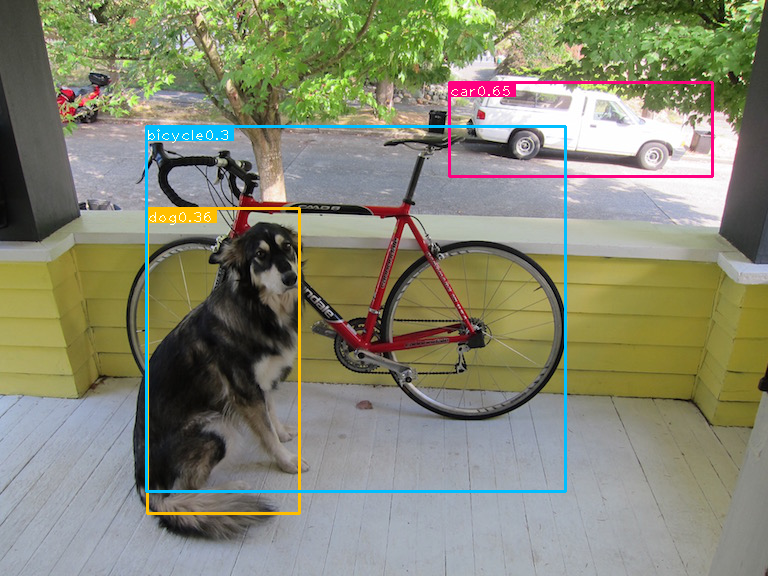
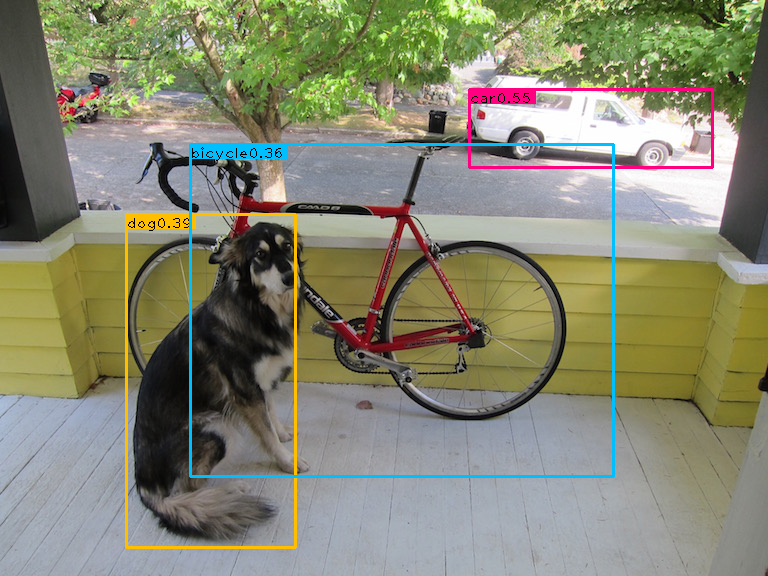
update pics

Changed region(s): [[0.1562, 0.125, 0.9375, 0.9688]]

diff --git a/loss.py b/loss.py
@@ -9,7 +9,7 @@ class_num = int(d['classes'])
 
 
 class YOLOLoss(nn.Module):
-    def __init__(self, side, num, sqrt, coord_scale, noobj_scale, use_gpu=True):
+    def __init__(self, side, num, sqrt, coord_scale, noobj_scale, use_gpu=True,vis=None):
         super(YOLOLoss, self).__init__()
         self.side = side
         self.num = num
@@ -18,6 +18,7 @@ class YOLOLoss(nn.Module):
         self.sqrt = sqrt
         # self.use_gpu = torch.cuda.is_available()
         self.use_gpu = use_gpu
+        self.vis = vis
 
     def compute_iou(self, box1, box2):
         """
@@ -142,7 +143,7 @@ class YOLOLoss(nn.Module):
         # class loss
         class_loss = F.mse_loss(class_pred, class_label, reduction="sum")
 
-        total_loss = self.coord_scale*(xy_loss+wh_loss)+2.*response_loss+not_response_loss+self.noobj_scale*noobj_loss+class_loss
+        total_loss = self.coord_scale*(xy_loss+wh_loss)+2.*response_loss+not_response_loss+0.5*self.noobj_scale*noobj_loss+class_loss
 
         return total_loss / N
 
@@ -177,9 +178,9 @@ class YOLOLoss(nn.Module):
         # compute not containing loss
         noobj_pred = preds[noobj_mask].view(-1, cell_size)
         noobj_label = labels[noobj_mask].view(-1, cell_size)
-        noobj_pred_mask = torch.cuda.ByteTensor(noobj_pred.size()) if self.use_gpu else torch.ByteTensor(
-            noobj_pred.size())
-        noobj_pred_mask.zero_()
+        noobj_pred_mask = torch.ByteTensor(noobj_pred.size()).zero_()
+        if self.use_gpu:
+            noobj_pred_mask = noobj_pred_mask.cuda()
         for i in range(self.num):
             noobj_pred_mask[:, i * 5 + 4] = 1  # just need confidence
         noobj_pred_c = noobj_pred[noobj_pred_mask]
@@ -188,12 +189,12 @@ class YOLOLoss(nn.Module):
         noobj_loss *= self.noobj_scale
 
         # object containing loss
-        obj_response_mask = torch.cuda.ByteTensor(box_label.size()) if self.use_gpu else torch.ByteTensor(
-            box_label.size())
-        obj_response_mask.zero_()
-        obj_not_response_mask = torch.cuda.ByteTensor(box_label.size()) if self.use_gpu else torch.ByteTensor(
-            box_label.size())
-        obj_not_response_mask.zero_()
+        obj_response_mask = torch.ByteTensor(box_label.size()).zero_()
+        if self.use_gpu:
+            obj_response_mask = obj_response_mask.cuda()
+        obj_not_response_mask = torch.ByteTensor(box_label.size()).zero_()
+        if self.use_gpu:
+            obj_not_response_mask = obj_not_response_mask.cuda()
         box_label_iou = torch.zeros(box_label.size())
         if self.use_gpu:
             box_label_iou = box_label_iou.cuda()
@@ -254,14 +255,19 @@ class YOLOLoss(nn.Module):
         # if softmax:
         #     class_loss = F.cross_entropy(class_pred, class_label.max(1)[1], reduction="sum")
         # else:
-        class_loss = F.mse_loss(class_pred, class_label, reduction="sum")
-        # class_loss = F.binary_cross_entropy(class_pred, class_label, reduction='sum')
+        # class_loss = F.mse_loss(class_pred, class_label, reduction="sum")
+        class_loss = F.binary_cross_entropy(class_pred, class_label, reduction='sum')
         # class_loss *= 0.5
 
         print("xy loss:{:.4f},wh loss:{:.4f},resp loss:{:.4f},non-resp loss:{:.4f},noobj loss:{:.4f},class loss:{:.4f}".format(
                 xy_loss, wh_loss, response_loss, not_response_loss, noobj_loss, class_loss))
         # print('coord loos:class loss {:.3f}'.format((xy_loss+wh_loss)/class_loss))
         total_loss = (xy_loss + wh_loss) + response_loss + not_response_loss + noobj_loss + class_loss
+        if self.vis is not None:
+            self.vis.plot_many_stack({'xy': xy_loss.item(),'wh': wh_loss.item(),
+                                      'resp':response_loss.item(),'non-resp':not_response_loss.item(),
+                                      'noobj':noobj_loss.item(),
+                                      'class':class_loss.item()},'iter','losses')
 
         return total_loss / N
 
@@ -454,12 +460,12 @@ class YOLOLoss(nn.Module):
 
 
 if __name__ == '__main__':
-    yololoss = YOLOLoss(14,1,1,5,.5)
+    yololoss = YOLOLoss(14,2,1,5,.5)
     torch.manual_seed(1)
-    pred = torch.rand(1, 14, 2, 25).cuda()
+    pred = torch.rand(1, 14, 2, 30).cuda()
     target = torch.rand(pred.shape).cuda()
-    loss = yololoss.loss_2(pred, target)
-    loss_1 =yololoss.loss_3(pred,target)
+    loss = yololoss.loss_1(pred, target)
+    loss_1 =yololoss.loss_2(pred,target)
     print(loss)  # 181.4906
     print(loss_1)
 

diff --git a/detect.py b/detect.py
@@ -68,9 +68,9 @@ def test_canvas(model_name, image_name, weight, prob_thresh=0.2, nms_thresh=0.4,
     # return output
 
 
-def test_many(model_name,test_file,weight, prob_thresh=0.2, nms_thresh=0.4, mode=1,use_gpu=True):
+def test_many(model_name,test_file,weight, prob_thresh=0.1, nms_thresh=0.5, mode=1,pd=True,use_gpu=True):
     print('load weight')
-    model = load_model(model_name, weight, mode,use_gpu)
+    model = load_model(model_name, weight, mode, use_gpu)
     if use_gpu:
         model.cuda()
     print("detecting")
@@ -93,20 +93,37 @@ def test_many(model_name,test_file,weight, prob_thresh=0.2, nms_thresh=0.4, mode
     random.shuffle(images)
     since = time.time()
     for imp in images:
+        # print(imp)
         image = cv2.imread(imp)
         h, w, _ = image.shape
         pred = get_pred(image,model,use_gpu)
         probs = np.zeros((side * side * num, classes))
         boxes = np.zeros((side * side * num, 4))
-        get_detection_boxes(pred, 0.1, 0.5, boxes, probs)
+        get_detection_boxes(pred, prob_thresh, nms_thresh, boxes, probs)
+
         maxclsind = np.argmax(probs, 1)
         maxprob = np.max(probs, 1)
         mask = maxprob > 0
-        maskbox = correct_boxes(boxes[mask], h, w)
+        if np.sum(mask) == 0:
+            continue
+
+        maskbox = boxes[mask]
         maskprob = maxprob[mask]
         maskind = maxclsind[mask]
-        for i in range(np.sum(mask)):
-            image = imwrite(image, maskbox[i], voc_class_names[maskind[i]], maskind[i], maskprob[i])
+        if pd:
+            output = postdeal(maskbox,maskprob,maskind,h,w)
+            for it in output:
+                box = it[0]
+                prob = it[1]
+                cls_ind = it[2]
+                cls_names = [voc_class_names[i] for i in cls_ind]
+                prob = [p for p in prob]
+                cls_ind = cls_ind[0]
+                image = imwrite(image, box, cls_names, cls_ind, prob)
+        else:
+            maskbox = correct_boxes(maskbox, h, w)
+            for i in range(maskbox.shape[0]):
+                image = imwrite(image, maskbox[i], voc_class_names[maskind[i]], maskind[i], maskprob[i])
 
         # boxes, probs, cls_indices = get_detection_boxes_1(pred, prob_thresh, nms_thresh, True)
         # for i, box in enumerate(boxes):
@@ -129,8 +146,8 @@ def test_many(model_name,test_file,weight, prob_thresh=0.2, nms_thresh=0.4, mode
     print('{:.3f}s per image'.format((time.time()-since)/len(images)))
 
 
-def test(model_name, image_name, weight, prob_thresh=0.2, nms_thresh=0.4, mode=1,use_gpu=True):
-    result = get_test_result_1(model_name, image_name, weight, prob_thresh, nms_thresh, mode, use_gpu)
+def test(model_name, image_name, weight, prob_thresh=0.2, nms_thresh=0.4, mode=1, use_gpu=True):
+    result = get_test_result(model_name, image_name, weight, prob_thresh, nms_thresh, mode, use_gpu)
     image = cv2.imread(image_name)
     print('get result:%d'%len(result))
     for item in result:
@@ -162,6 +179,7 @@ def arg_parse():
     arg_parser.add_argument("--mode", dest="mode", default=1, help="model save mode", type=int)
     arg_parser.add_argument("--nms", dest="nms", default=0.5, help="nms thresh", type=float)
     arg_parser.add_argument("--thresh", dest="thresh", default=0.2, help="confidence thresh", type=float)
+    arg_parser.add_argument("--pd", dest="pd", default=1, help="post deal", type=int)
     arg_parser.add_argument("weight", nargs=1, help="weight file", type=str)
 
     if len(sys.argv) < 2:
@@ -181,13 +199,14 @@ if __name__ == '__main__':
     mode = args.mode
     # num = args.num
     nms = args.nms
+    pd = args.pd
     thresh = args.thresh
     weight = args.weight[0]
 
     if do == "test":
-        test(model_name, image_name, weight,thresh,nms, mode,False)
+        test(model_name, image_name, weight,thresh,nms, mode, use_gpu=False)
     elif do == "test2":
-        test_many(model_name, image_name, weight, thresh, nms, mode)
+        test_many(model_name, image_name, weight, thresh, nms, mode,pd=pd)
     elif do == "test3":
         test_canvas(model_name, image_name, weight, thresh, nms, mode)
     elif do == "eval":

diff --git a/predict.py b/predict.py
@@ -248,7 +248,7 @@ def get_detection_boxes(pred, prob_thresh, nms_thresh, boxes, probs, nms=True):
             # probs[g*num+k, prob != prob.max()] = 0
             # for z in range(classes):
             #     prob = obj * pred[i, j, num * 5 + z]
-            #     probs[g*num+k][z] = prob if prob > prob_thresh else 0
+            #     probs[g*num+k, z] = prob if prob > prob_thresh else 0
     if nms:
         # since = time.time()
         do_nms(boxes, probs, nms_thresh)
@@ -384,6 +384,38 @@ def correct_boxes(boxes,h,w,mode=0):
     return boxesout
 
 
+def postdeal(box,prob,ind,h,w):
+    mmord = np.argsort(prob)[::-1]
+    keep = {}
+    while mmord.size > 0:
+        i = mmord[0]
+        keep[i] = []
+        if mmord.size == 1:
+            break
+        ovs = bboxes_iou_np(box[i], box[mmord[1:]])
+        mask = ovs > 0.6
+        keep[i] = mmord[1:][mask]
+        mmord = mmord[1:][1 - mask == 1]
+    output = []
+    for i in keep:
+        keepind = []
+        keepprob = []
+        keepind.append(ind[i])
+        keepprob.append(prob[i])
+        ki = ind[keep[i]]
+        kp = prob[keep[i]]
+        asind = np.argsort(ki)
+        uni = ind[i]
+        # print(ki)
+        for j in asind:
+            if ki[j] != uni:
+                keepind.append(ki[j])
+                keepprob.append(kp[j])
+                uni = ki[j]
+        output.append([correct_box(box[i], h, w), keepprob, keepind])
+    return output
+
+
 def get_test_result(model_name, image_name, weight, prob_thresh=0.2, nms_thresh=0.4, mode=1, use_gpu=True):
     image = cv2.imread(image_name)
     h, w, _ = image.shape
@@ -404,7 +436,7 @@ def get_test_result(model_name, image_name, weight, prob_thresh=0.2, nms_thresh=
     #     buff = np.append(buff,probs)
     #     buff = np.append(buff,boxes)
     #     buff.astype('float32').tofile(fp)
-    postdeal = False
+    pd = True
     output = []
     maxind = np.argmax(probs, 1)
     maxprob = np.max(probs, 1)
@@ -416,28 +448,8 @@ def get_test_result(model_name, image_name, weight, prob_thresh=0.2, nms_thresh=
     maskprob = maxprob[mask]
     maskind = maxind[mask]
 
-    if postdeal:
-        mmord = np.argsort(-maskprob)
-        keep = {}
-        while mmord.size > 0:
-            i = mmord[0]
-            keep[i] = []
-            if mmord.size == 1:
-                break
-            ovs = bboxes_iou_np(maskbox[i], maskbox[mmord[1:]])
-            mask = ovs > 0.5
-            keep[i] = mmord[1:][mask]
-            mmord = mmord[1:][1-mask==1]
-
-        for i in keep:
-            keepind = []
-            keepprob = []
-            keepind.append(maskind[i])
-            keepprob.append(maskprob[i])
-            for j in keep[i]:
-                keepind.append(maskind[j])
-                keepprob.append(maskprob[j])
-            output.append([correct_box(maskbox[i],h,w),keepprob,keepind])
+    if pd:
+        output = postdeal(maskbox,maskprob,maskind,h,w)
     else:
         maskbox = correct_boxes(maskbox,h,w)
         maskprob = maxprob[mask].reshape(-1, 1)
@@ -530,7 +542,7 @@ def predict_eval(test_file, model_name, weight,use_gpu=True):
         # pred = pred.cpu()
         probs = np.zeros((side * side * num, classes))
         boxes = np.zeros((side * side * num, 4))
-        get_detection_boxes(pred, 0.1, 0.5, boxes, probs)
+        get_detection_boxes(pred, 0.1, 0.5, boxes, probs,True)
         for i in range(probs.shape[0]):
             x1, y1, x2, y2 = correct_box(boxes[i],h,w,1)
             for j in range(classes):

diff --git a/train.py b/train.py
@@ -31,7 +31,7 @@ momentum = 0.9
 weight_decay = 5e-4
 steps = [30, 40]
 lr_scale = [0.1, 0.1]
-num_epochs = 50
+num_epochs = 10
 
 d = readcfg('cfg/yolond')
 side = int(d['side'])
@@ -52,7 +52,7 @@ visualize = True
 log = True
 validate = False
 vischange = False
-save_final = True
+save_final = False
 
 data_transforms = transforms.Compose([
     # transforms.ToTensor(),
@@ -218,6 +218,7 @@ if env is None:
     print('no visdom-environment specified, visualization off')
     visualize = False
     # sys.exit(1)
+vis = None
 if visualize:
     vis = Visualizer(env='{}{}_{}'.format(model_name, env, time.strftime('%m%d%H%M')))
 if log:
@@ -238,7 +239,8 @@ assert model_ft is not None
 
 model_ft.to(device)
 
-criterion = YOLOLoss(side=side, num=num, sqrt=sqrt, coord_scale=coord_scale, noobj_scale=noobj_scale)
+vis = Visualizer('bceloss_2_cmp_{}'.format(time.strftime('%m%d%H%M')))
+criterion = YOLOLoss(side=side, num=num, sqrt=sqrt, coord_scale=coord_scale, noobj_scale=noobj_scale, vis=vis)
 
 # params=[]
 # params_dict = dict(model_ft.named_parameters())

diff --git a/ftd_model.py b/ftd_model.py
@@ -168,7 +168,7 @@ def get_model_ft(name, pretrained=True):
 
     elif name == "resnet50":
         models.resnet50()
-        downsm = True
+        downsm = False
         model_ft = mresnet.resnet50(num=num, side=side, num_classes=classes,
                                     softmax=softmax, detnet_block=not downsm, downsample=downsm)
         if pretrained:
